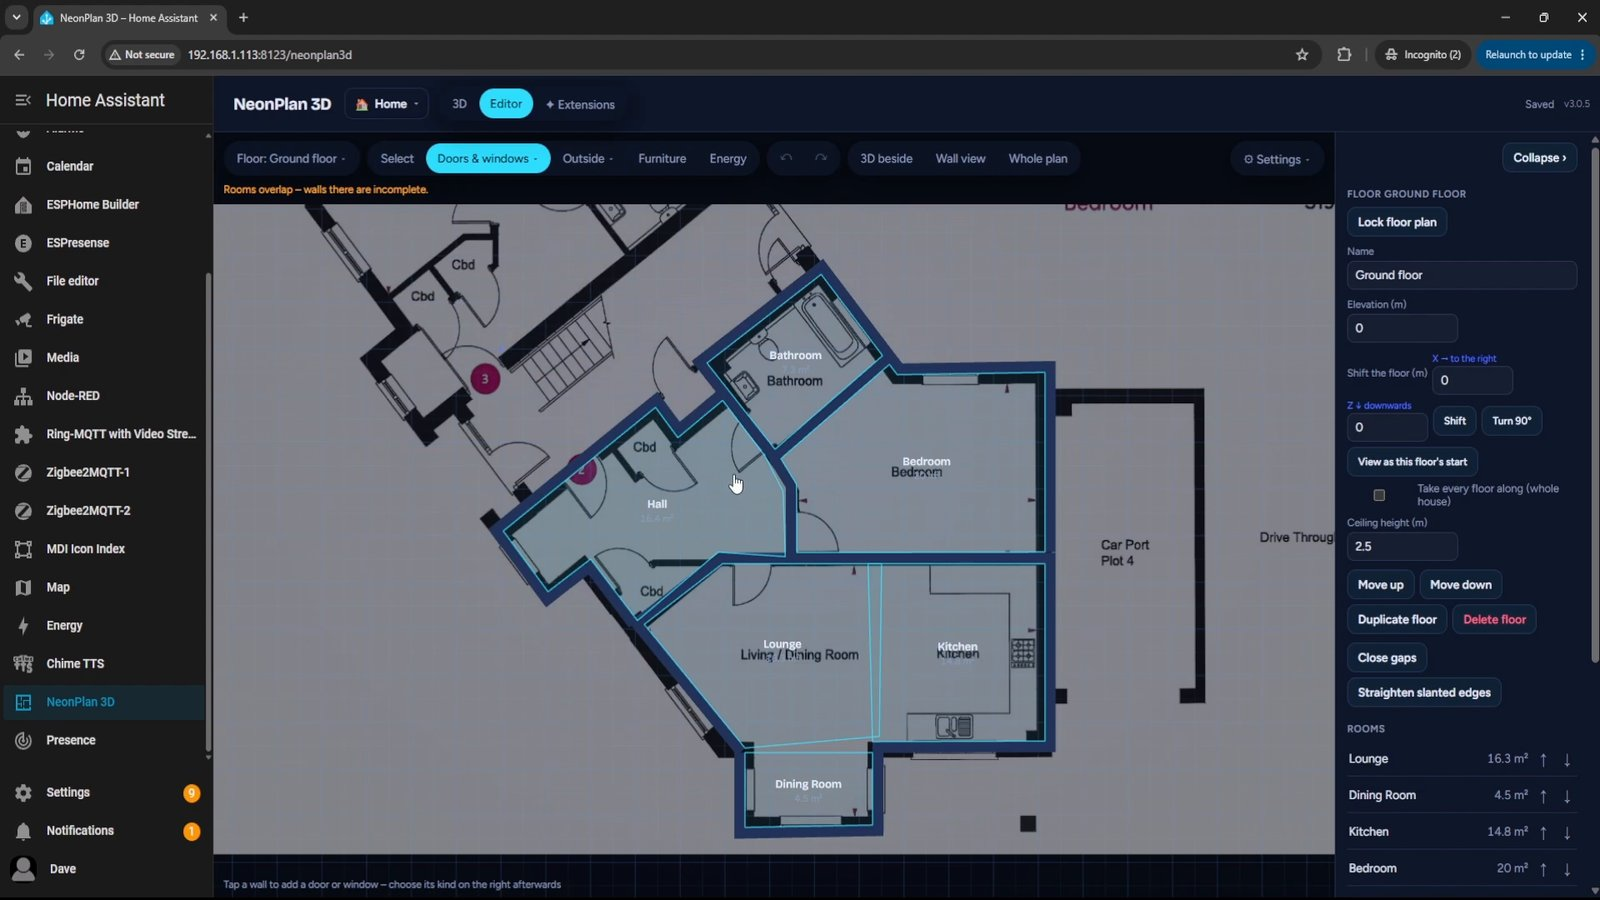
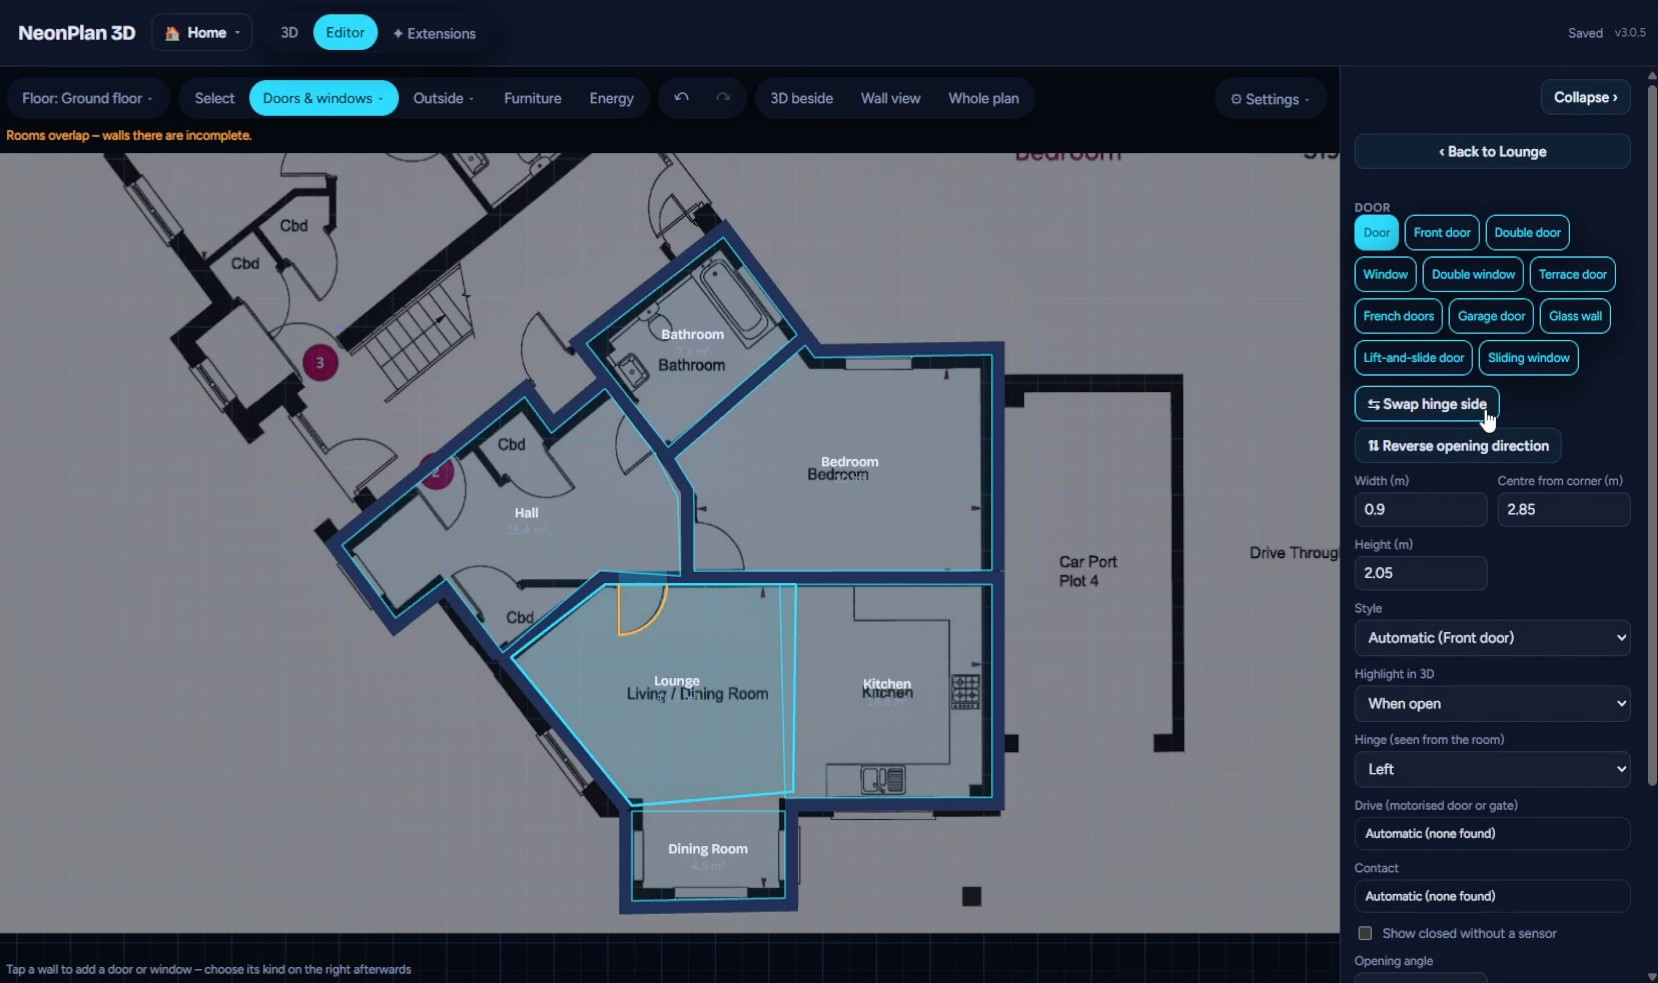
Fix door and window screenshots: door panel, double window, blind field
Claude-Session: https://claude.ai/code/session_01WJYJPzWppYSGrsMDM5gfMN

diff --git a/README.md b/README.md
@@ -136,9 +136,12 @@ Select each room and fill in:
 **Windows**
 
 1. Click a wall and pick a window type, such as **Double window**. You can set the width if you know it.
-2. Under **Blind**, choose your smart blind. NeonPlan often finds it automatically. You don't need to set which side is outside.
 
-![Window blind setting](images/11-window-blind.jpg)
+   ![Double window selected](images/11-double-window.jpg)
+
+2. Scroll down to **Blind** and choose your smart blind. NeonPlan often finds it automatically. You don't need to set which side is outside.
+
+   <img src="images/12-window-blind.jpg" alt="Blind setting" width="35%">
 
 > **Curtains:** the blind field takes one cover. If you only have motorised curtains, pick them there. The animation shows a roller blind, but it still shows open or closed. If a window has a blind and curtains, put the blind there and add the curtains as a separate device beside the window (Step 9).
 >
